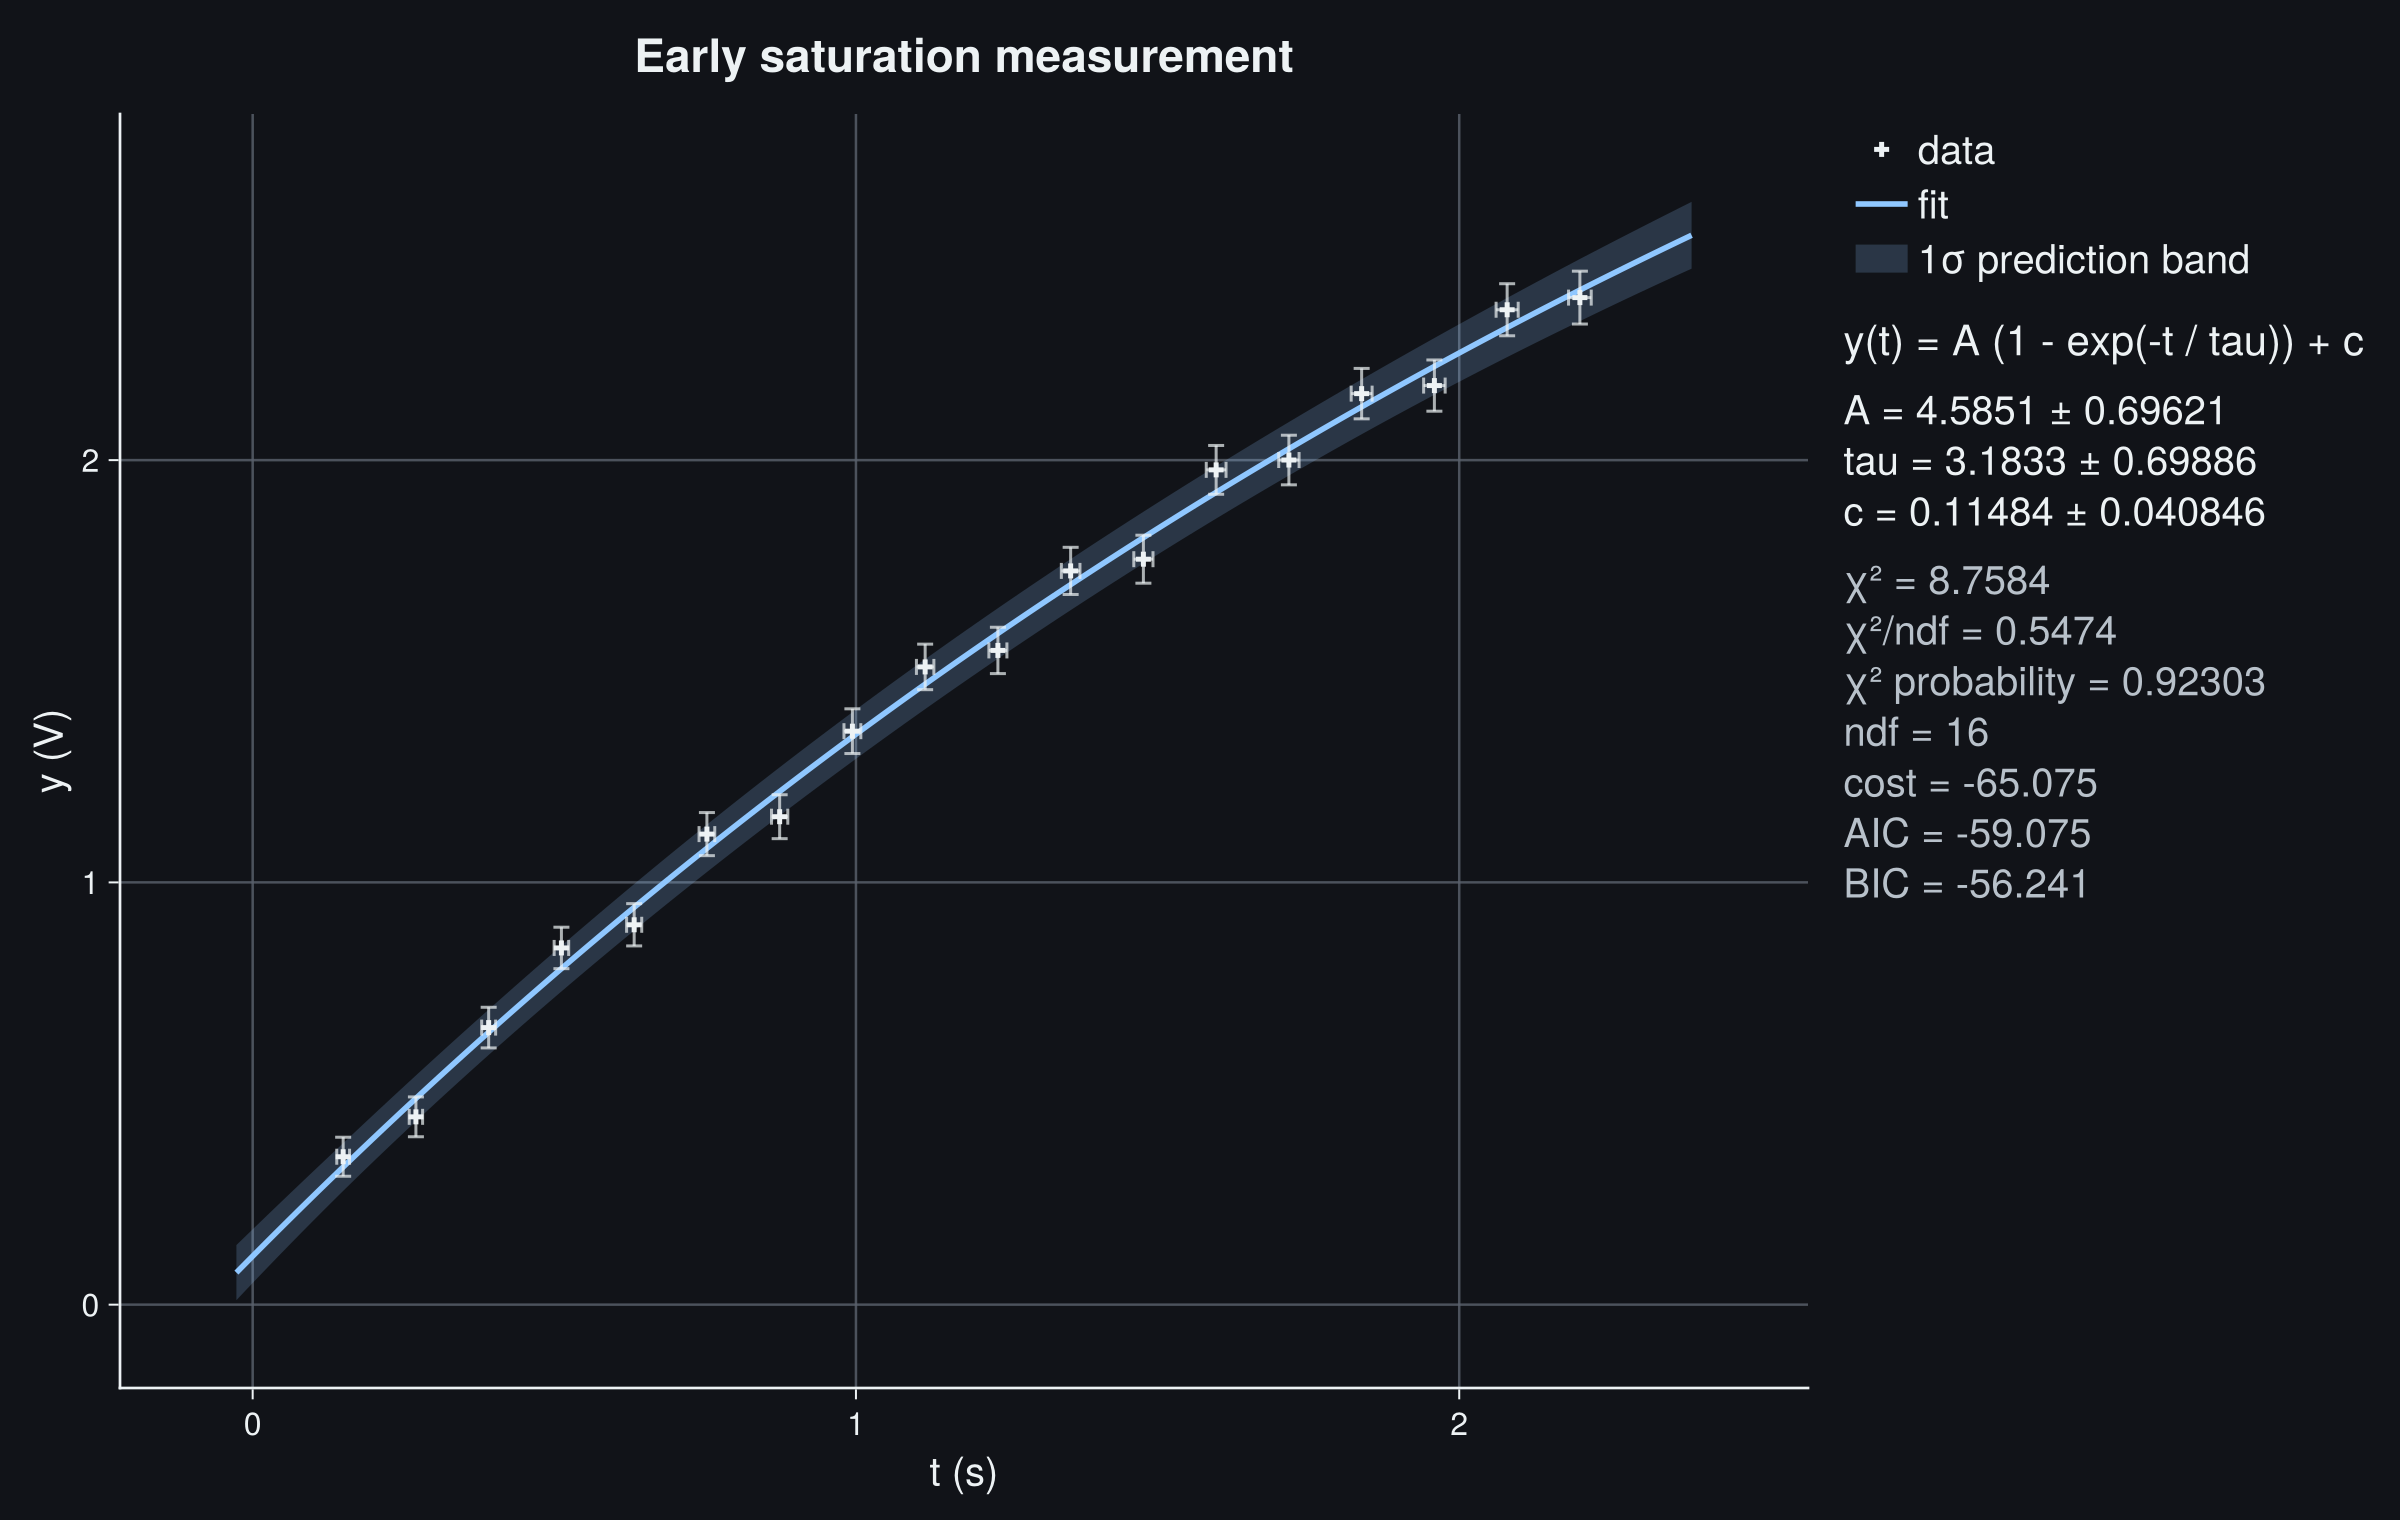
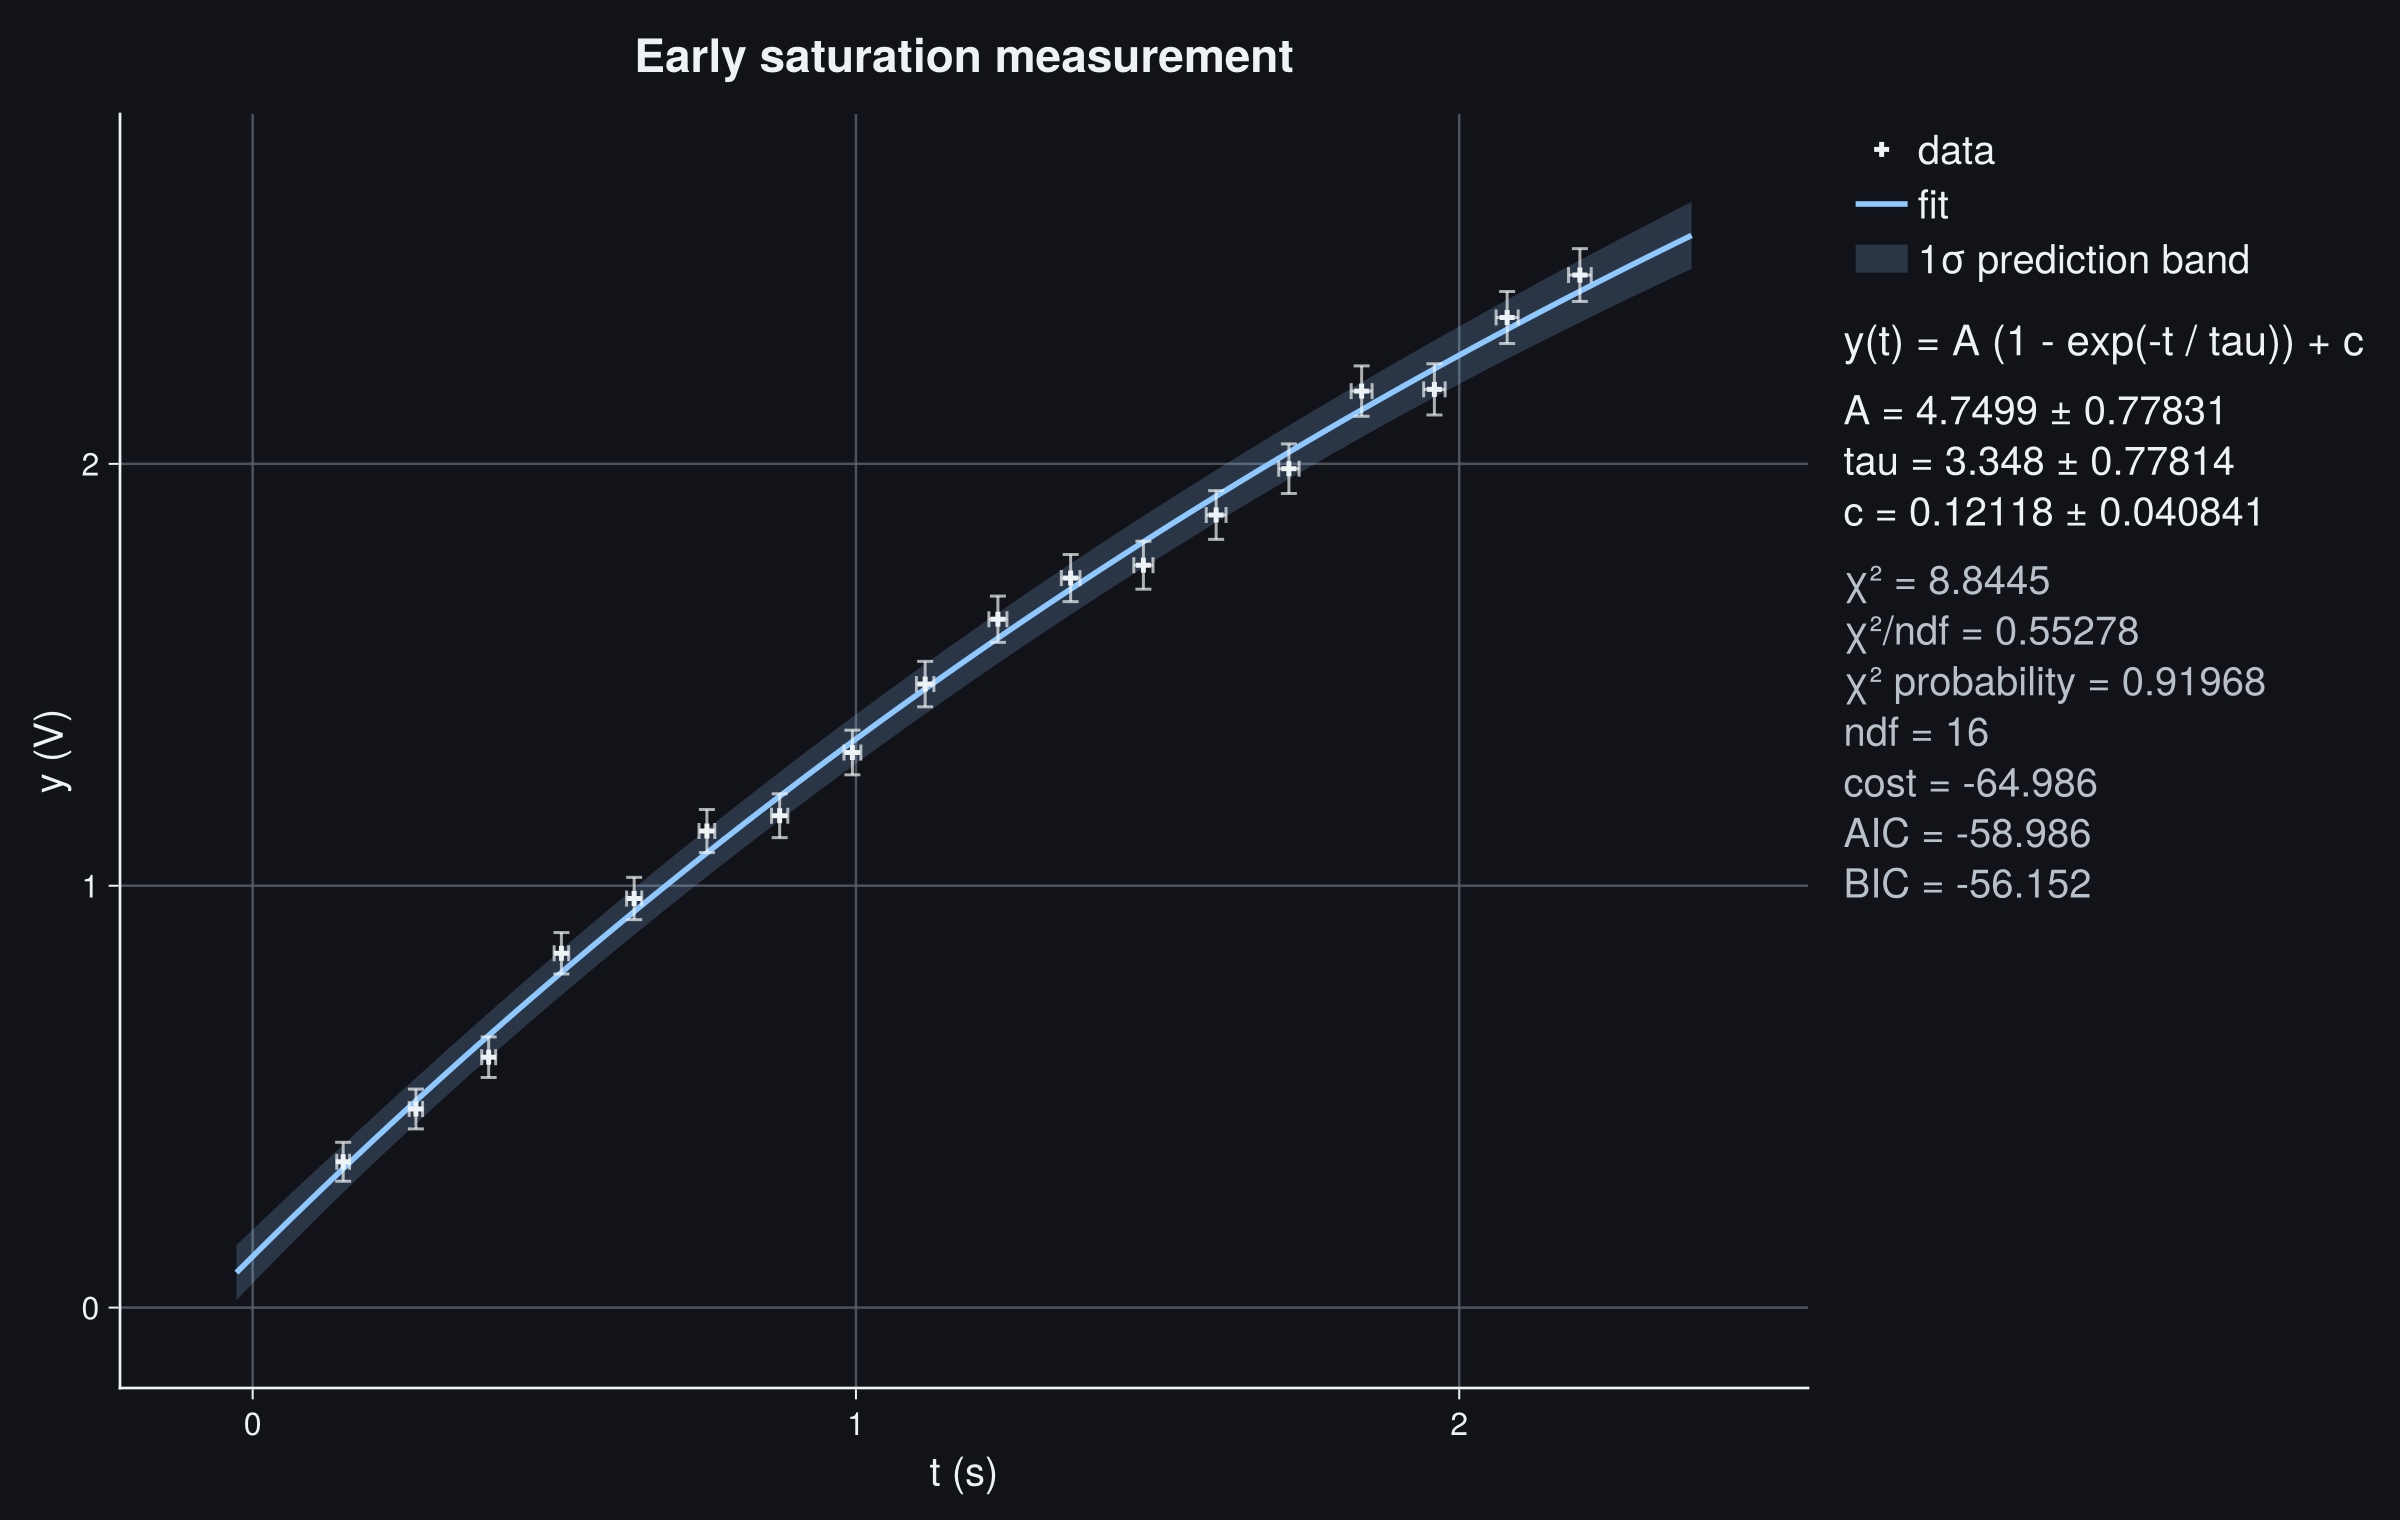
Audit constraints and profile diagnostics

diff --git a/docs/src/gallery/constraints_profiles.md b/docs/src/gallery/constraints_profiles.md
@@ -38,9 +38,10 @@ The analysis must answer more than "does the curve pass through the points?"
 
 The controlled dataset below mimics an early-time step-response measurement:
 the plateau is not reached, each time point has its own uncertainty, and an
-independent baseline calibration supplies external information. The numerical
-values are reproducible, but the structure is the realistic part: early data
-mostly constrain the initial slope.
+independent baseline calibration supplies external information. It is a
+teaching record rather than a measurement attributed to a particular sensor.
+All four input arrays are printed in the fit cell; no hidden random generator or
+unknown true parameter enters the analysis.
 
 ## Why The Parameters Become Degenerate
 
@@ -69,9 +70,9 @@ and response:
 \sigma_{y,i} = 0.045 + 0.008t_i\ \mathrm{V}.
 ```
 
-The residual pattern is fixed so that the page is reproducible, but it is not a
-perfect model-generated line. An independent zero measurement supplies the
-Gaussian prior
+The observations contain visible scatter and do not sit on a perfect
+model-generated curve. An independent zero measurement supplies the Gaussian
+prior
 
 ```math
 c = 0.10 \pm 0.08\ \mathrm{V}.
@@ -125,38 +126,52 @@ is needed when the first-order approximation is not adequate.
 ## Complete Fit
 
 ```julia
+using CairoMakie
 using JuFitter
+using Printf
 
-t = collect(range(0.15, 2.2; length=18))
-model(t, p) = @. p[1] * (1 - exp(-t / p[2])) + p[3]
-
-sigma_t = @. 0.010 + 0.004 * t
-sigma_y = @. 0.045 + 0.008 * t
-residual_pattern = [
-    0.50, -0.90, 0.30, 1.10, -0.70, 0.80, -1.00, 0.40, 0.90,
-    -0.60, 0.70, -0.80, 1.00, -0.40, 0.55, -0.75, 0.65, -0.35,
+t = [
+    0.150000, 0.270588, 0.391176, 0.511765, 0.632353, 0.752941,
+    0.873529, 0.994118, 1.114706, 1.235294, 1.355882, 1.476471,
+    1.597059, 1.717647, 1.838235, 1.958824, 2.079412, 2.200000,
 ]
-y = model(t, [4.8, 3.4, 0.12]) .+ sigma_y .* residual_pattern
+response = [
+    0.345641, 0.470693, 0.593535, 0.839840, 0.969673, 1.129630,
+    1.165946, 1.315719, 1.477930, 1.631653, 1.729280, 1.759687,
+    1.878716, 1.988480, 2.172411, 2.176549, 2.346881, 2.447489,
+]
+sigma_t = [
+    0.010600, 0.011082, 0.011565, 0.012047, 0.012529, 0.013012,
+    0.013494, 0.013976, 0.014459, 0.014941, 0.015424, 0.015906,
+    0.016388, 0.016871, 0.017353, 0.017835, 0.018318, 0.018800,
+]
+sigma_response = [
+    0.046200, 0.047165, 0.048129, 0.049094, 0.050059, 0.051024,
+    0.051988, 0.052953, 0.053918, 0.054882, 0.055847, 0.056812,
+    0.057776, 0.058741, 0.059706, 0.060671, 0.061635, 0.062600,
+]
+
+model(t, p) = @. p[1] * (1 - exp(-t / p[2])) + p[3]
 
 result = fit_model(
     model,
     t,
-    y;
-    p0=[3.0, 2.0, 0.0],
-    sigma_y=sigma_y,
+    response;
+    p0=[4.5, 3.0, 0.1],
+    sigma_y=sigma_response,
     sigma_x=sigma_t,
     bounds=([0.1, 0.1, -0.5], [20.0, 20.0, 1.0]),
     parameter_priors=(index=3, mean=0.10, sigma=0.08),
     initial_guesses=[
-        [3.0, 2.0, 0.0],
-        [8.0, 7.0, 0.1],
-        [2.0, 1.0, 0.2],
+        [6.0, 5.0, 0.1],
+        [3.0, 2.0, 0.1],
     ],
+    maxiters=2000,
 )
 
-amplitude_profile = profile(result, 1; npoints=61, nsigma=4)
 amplitude_interval = profile_interval(result, 1; npoints=81, nsigma=4)
-amplitude_timescale = contour(
+amplitude_profile = amplitude_interval.profile_result
+amplitude_timescale = JuFitter.contour(
     result,
     1,
     2;
@@ -171,6 +186,7 @@ profile_overview = profile_matrix(
     npoints_contour=21,
     nsigma=3,
     adaptive=true,
+    max_refinements=1,
 )
 
 plot_profile(
@@ -188,42 +204,34 @@ plot_contour(
     ylabel="time constant tau",
     title="Profile contours versus local covariance",
 )
-plot_profile_matrix(
-    result;
-    parameters=[1, 2, 3],
-    parameter_names=["A", "tau", "c"],
-    npoints_profile=41,
-    npoints_contour=21,
-    nsigma=3,
-    adaptive=true,
-)
+plot_profile_matrix(profile_overview)
 
-println("amplitude center = ", result.params[1])
-println("amplitude 1sigma lower = ", amplitude_interval.lower)
-println("amplitude 1sigma upper = ", amplitude_interval.upper)
-println("amplitude -sigma = ", amplitude_interval.uncertainty_minus)
-println("amplitude +sigma = ", amplitude_interval.uncertainty_plus)
+@printf("amplitude = %.3f -%.3f +%.3f V\n",
+        result.params[1],
+        amplitude_interval.uncertainty_minus,
+        amplitude_interval.uncertainty_plus)
+@printf("profile interval = [%.3f, %.3f] V\n",
+        amplitude_interval.lower,
+        amplitude_interval.upper)
+@printf("corr(A, tau) = %.4f\n", result.param_correlation[1, 2])
 println(diagnostic_dashboard_text(result))
 ```
 
 ```@raw html
 <div class="jufitter-cell-output">
 <div class="jufitter-cell-output-label">Real output (abridged)</div>
-<pre>amplitude center = 4.5851070904210935
-amplitude 1sigma lower = 4.016607430313673
-amplitude 1sigma upper = 5.480983264573968
-amplitude -sigma = 0.5684996601074204
-amplitude +sigma = 0.8958761741528747
+<pre>amplitude = 4.750 -0.629 +1.018 V
+profile interval = [4.121, 5.768] V
+corr(A, tau) = 0.9928
 
 Fit diagnostic dashboard
 status = review - inspect diagnostics
-critical = 0, warning = 3, info = 0
-3 warning(s). Inspect before trusting uncertainties or conclusions.
+critical = 0, warning = 2, info = 0
+2 warning(s). Inspect before trusting uncertainties or conclusions.
 
 Next actions:
-  1. Use a covariance model, inspect acquisition order/time dependence, or fit a model with the missing systematic component.
-  2. Use profile or contour intervals before treating symmetric covariance errors as final uncertainties.
-  3. Inspect a contour/profile plot. Re-center or rescale the independent variable, reparameterize the model, or add data that breaks the degeneracy.</pre>
+  1. Use profile or contour intervals before treating symmetric covariance errors as final uncertainties.
+  2. Inspect a contour/profile plot. Re-center or rescale the independent variable, reparameterize the model, or add data that breaks the degeneracy.</pre>
 </div>
 ```
 
@@ -234,15 +242,15 @@ mistaken for the physical minimum.
 The fit returns approximately
 
 ```math
-A = 4.59 \pm 0.70\ \mathrm{V},
+A = 4.75 \pm 0.78\ \mathrm{V},
 \qquad
-\tau = 3.18 \pm 0.70\ \mathrm{s},
+\tau = 3.35 \pm 0.78\ \mathrm{s},
 \qquad
-c = 0.115 \pm 0.041\ \mathrm{V}.
+c = 0.121 \pm 0.041\ \mathrm{V}.
 ```
 
 Those symmetric errors are only the local covariance summary. The fitted
-correlation between ``A`` and ``\tau`` is approximately ``0.9999``. That number
+correlation between ``A`` and ``\tau`` is approximately ``0.9928``. That number
 is already a warning to inspect the cost away from the minimum.
 
 ## Diagnostics: Profile and Contour Checks
@@ -283,10 +291,10 @@ The actual profile rises more slowly toward larger amplitudes. The one-sigma
 profile interval is approximately
 
 ```math
-A = 4.59^{+0.90}_{-0.57}\ \mathrm{V},
+A = 4.75^{+1.02}_{-0.63}\ \mathrm{V},
 ```
 
-not ``4.59 \pm 0.70\ \mathrm{V}``. The asymmetry is scientifically relevant:
+not ``4.75 \pm 0.78\ \mathrm{V}``. The asymmetry is scientifically relevant:
 large amplitudes remain plausible because a longer time constant can hide the
 plateau beyond the measured interval.
 

diff --git a/RELEASE_AUDIT.md b/RELEASE_AUDIT.md
@@ -116,6 +116,16 @@ Local commits on `codex/*` branches are allowed only as reviewable checkpoints.
   interval, contour matrix, and both plot exports execute to completion.
   Tracked gallery regeneration requires the explicit maintainer flag and can be
   limited to one asset group instead of recomputing unrelated profile matrices.
+- Constraints and Profiles now fits four explicit measurement arrays instead
+  of constructing observations from hidden true parameters and an alternating
+  residual pattern. The curated record converges cleanly and leaves only the
+  intended strong-correlation and local-covariance warnings; the former
+  artificial lag-one residual warning is gone. The page's asymmetric interval,
+  correlation, dashboard, and 24 fit/profile/contour/matrix assets come from
+  that same fit. Profile scans and the three-parameter matrix are each computed
+  once and reused by the render layer. Article-dark diagnostic regions and the
+  fit minimum now use visible high-contrast colors rather than black on the
+  dark figure background.
 - `git diff --check` passes for the current release-hardening branch.
 - `julia --project=. --startup-file=no -e 'include("test/torture_runtests.jl")'`
   passes with 79 torture checks in about 1m38s on the local machine. Three
@@ -178,13 +188,13 @@ Local commits on `codex/*` branches are allowed only as reviewable checkpoints.
   Its roughly 42-minute runtime is too slow for the default developer loop and
   remains a release/CI gate; focused reference and torture suites provide the
   edit-test loop.
-- `julia --project=docs --startup-file=no test/plots/fitplot.jl` passes with 83
+- `julia --project=. --startup-file=no test/plots/fitplot.jl` passes with 86
   focused plot-regression checks locally, including structured-whitening error
   bars, prediction-band semantics, and the no-marginals failure path.
 - `julia --project=docs --startup-file=no docs/make.jl` passes locally. The
   build output is ignored and must not be committed.
 - `julia --project=. --startup-file=no test/docs_gallery_gate.jl` passes with
-  273 checks. The gate enforces the current release standard for every public
+  281 checks. The gate enforces the current release standard for every public
   gallery page:
   scientific question, data context, model/cost explanation, complete Julia
   code, real diagnostic output, interpretation, failure modes, explicit
